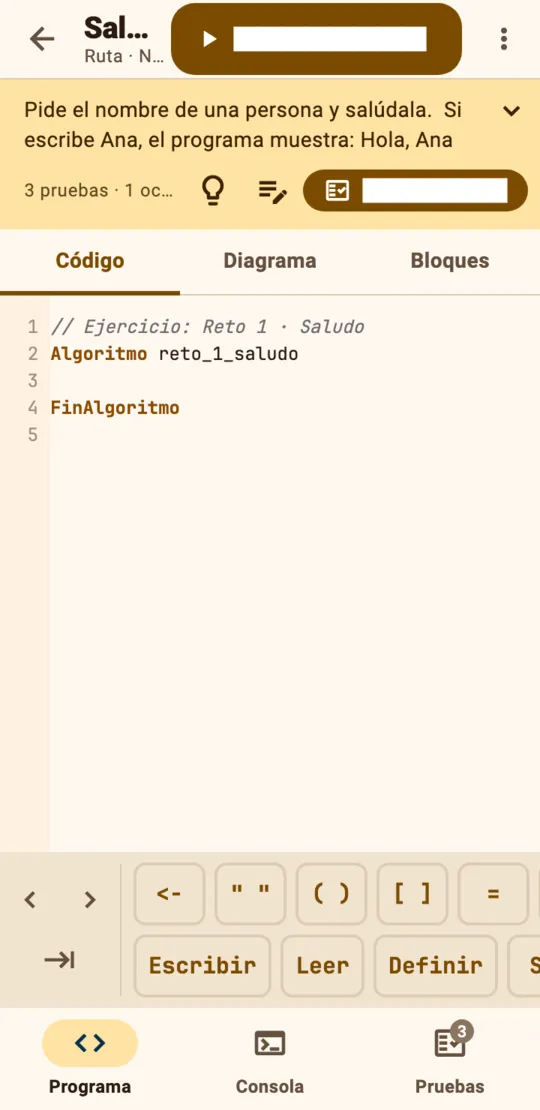
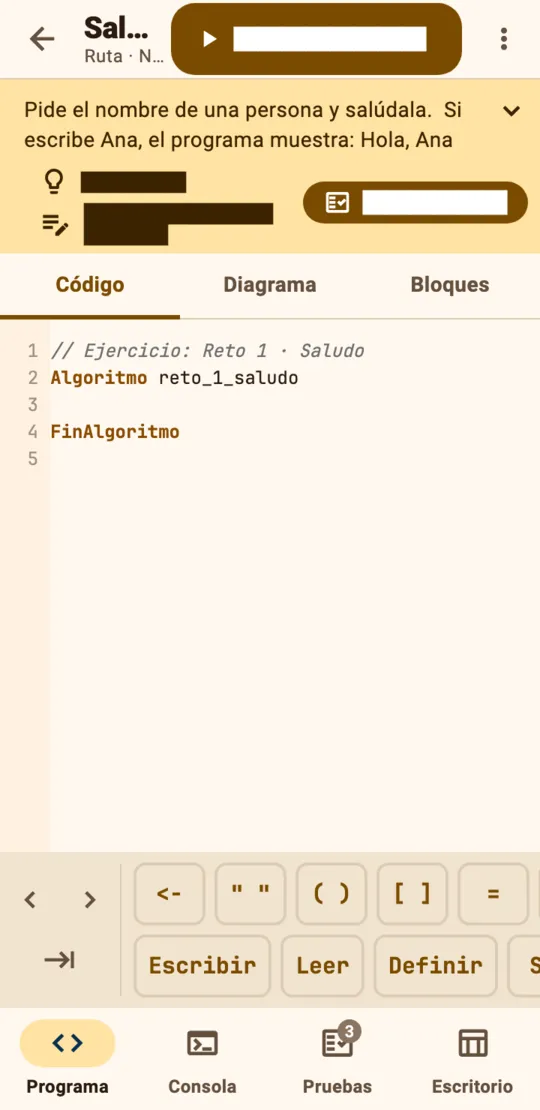
Agregada la pestaña Escritorio en la barra de abajo y botones con texto para pista y planteamiento

diff --git a/apps/jaguar/lib/src/exercises/exercise_banner.dart b/apps/jaguar/lib/src/exercises/exercise_banner.dart
@@ -188,7 +188,19 @@ class _ExerciseBannerState extends State<ExerciseBanner> {
                               ? ConstrainedBox(
                                   constraints: const BoxConstraints(maxHeight: 190),
                                   child: SingleChildScrollView(
-                                    child: Text(text, style: theme.textTheme.bodyMedium?.copyWith(color: color)),
+                                    child: Column(
+                                      crossAxisAlignment: CrossAxisAlignment.start,
+                                      children: [
+                                        Text(text, style: theme.textTheme.bodyMedium?.copyWith(color: color)),
+                                        const SizedBox(height: 6),
+                                        Text(
+                                          cases,
+                                          style: theme.textTheme.bodySmall?.copyWith(
+                                            color: color.withValues(alpha: 0.8),
+                                          ),
+                                        ),
+                                      ],
+                                    ),
                                   ),
                                 )
                               : Text(
@@ -206,29 +218,39 @@ class _ExerciseBannerState extends State<ExerciseBanner> {
               ),
             Row(
               children: [
+                // Words, not bare icons: they are what a student needs when stuck.
                 Expanded(
-                  child: Text(
-                    cases,
-                    overflow: TextOverflow.ellipsis,
-                    style: theme.textTheme.bodySmall?.copyWith(color: color.withValues(alpha: 0.8)),
+                  child: Wrap(
+                    children: [
+                      if (widget.onHints case final onHints?)
+                        TextButton.icon(
+                          style: TextButton.styleFrom(
+                            foregroundColor: color,
+                            minimumSize: const Size(0, 36),
+                            tapTargetSize: MaterialTapTargetSize.shrinkWrap,
+                            visualDensity: VisualDensity.compact,
+                            padding: const EdgeInsets.symmetric(horizontal: 10),
+                          ),
+                          onPressed: onHints,
+                          icon: const Icon(Icons.lightbulb_outline, size: 20),
+                          label: const Text('Pista'),
+                        ),
+                      if (widget.onPlan case final onPlan?)
+                        TextButton.icon(
+                          style: TextButton.styleFrom(
+                            foregroundColor: color,
+                            minimumSize: const Size(0, 36),
+                            tapTargetSize: MaterialTapTargetSize.shrinkWrap,
+                            visualDensity: VisualDensity.compact,
+                            padding: const EdgeInsets.symmetric(horizontal: 10),
+                          ),
+                          onPressed: onPlan,
+                          icon: const Icon(Icons.edit_note, size: 22),
+                          label: const Text('Planteamiento'),
+                        ),
+                    ],
                   ),
                 ),
-                if (widget.onHints case final onHints?)
-                  IconButton(
-                    tooltip: 'Pistas',
-                    icon: const Icon(Icons.lightbulb_outline),
-                    visualDensity: VisualDensity.compact,
-                    color: color,
-                    onPressed: onHints,
-                  ),
-                if (widget.onPlan case final onPlan?)
-                  IconButton(
-                    tooltip: 'Planteamiento: entrada, proceso y salida',
-                    icon: const Icon(Icons.edit_note),
-                    visualDensity: VisualDensity.compact,
-                    color: color,
-                    onPressed: onPlan,
-                  ),
                 if (widget.showCheckButton)
                   FilledButton.icon(
                     style: FilledButton.styleFrom(

diff --git a/apps/jaguar/lib/src/workspace/workspace_screen.dart b/apps/jaguar/lib/src/workspace/workspace_screen.dart
@@ -1972,11 +1972,18 @@ class _WorkspaceScreenState extends State<WorkspaceScreen> with WidgetsBindingOb
                   NavigationBar(
                     selectedIndex: tab,
                     labelBehavior: NavigationDestinationLabelBehavior.alwaysShow,
-                    onDestinationSelected: (tab) => setState(() {
-                      if (tab == 2) _tourAdvance(2);
-                      _tab = tab;
-                      if (tab > 0) _panel = tab == 1 ? _Panel.console : _Panel.tests;
-                    }),
+                    onDestinationSelected: (tab) {
+                      // The desk check is a screen of its own: it does not change the tab.
+                      if (tab == (exercise != null ? 3 : 2)) {
+                        _deskCheck();
+                        return;
+                      }
+                      setState(() {
+                        if (tab == 2) _tourAdvance(2);
+                        _tab = tab;
+                        if (tab > 0) _panel = tab == 1 ? _Panel.console : _Panel.tests;
+                      });
+                    },
                     destinations: [
                       const NavigationDestination(icon: Icon(Icons.code), label: 'Programa'),
                       NavigationDestination(
@@ -1996,6 +2003,7 @@ class _WorkspaceScreenState extends State<WorkspaceScreen> with WidgetsBindingOb
                           ),
                           label: 'Pruebas',
                         ),
+                      const NavigationDestination(icon: Icon(Icons.table_chart_outlined), label: 'Escritorio'),
                     ],
                   ),
                 ],

diff --git a/apps/jaguar/test/arranque_test.dart b/apps/jaguar/test/arranque_test.dart
@@ -1,6 +1,7 @@
 import 'package:flutter/material.dart';
 import 'package:flutter_test/flutter_test.dart';
 import 'package:jaguar/main.dart';
+import 'package:jaguar/src/console/desk_check_screen.dart';
 import 'package:jaguar/src/editor/code_editor.dart';
 import 'package:jaguar/src/exercises/exercise_banner.dart';
 import 'package:jaguar/src/exercises/exercise_store.dart';
@@ -265,12 +266,21 @@ void main() {
       final banner = find.byType(ExerciseBanner);
       expect(banner, findsOneWidget);
       // Two lines of statement and one row of tools: far less than a third of the screen.
-      expect(tester.getSize(banner).height, lessThan(140));
+      expect(tester.getSize(banner).height, lessThan(150));
       expect(find.text('Probar'), findsOneWidget);
       final folded = tester.getSize(banner).height;
       await tester.tap(find.byIcon(Icons.expand_more));
       await tester.pumpAndSettle();
       expect(tester.getSize(banner).height, greaterThan(folded));
+    });
+
+    testWidgets('la prueba de escritorio tiene su lugar en la barra de abajo', (tester) async {
+      await _pumpPhone(tester, source: 'Algoritmo hola\n    Escribir "hola"\nFinAlgoritmo\n');
+      final tab = find.descendant(of: find.byType(NavigationBar), matching: find.text('Escritorio'));
+      expect(tab, findsOneWidget);
+      await tester.tap(tab);
+      await tester.pumpAndSettle();
+      expect(find.byType(DeskCheckScreen), findsOneWidget);
     });
 
     testWidgets('el tour avanza al escribir, al ejecutar y al abrir Pruebas', (tester) async {
